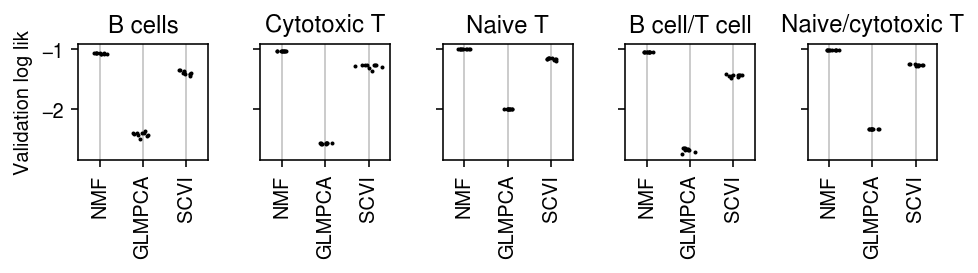
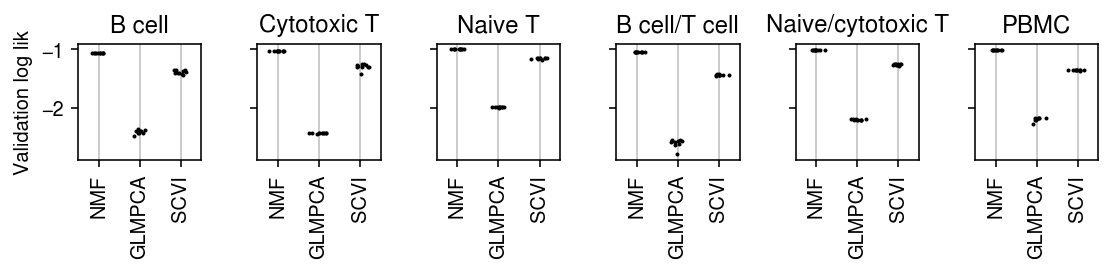
Fix PBMC benchmark

diff --git a/docs/lra.html b/docs/lra.html
@@ -1,7 +1,7 @@
 <!DOCTYPE html>
 <html lang="en">
 <head>
-<!-- 2019-08-29 Thu 15:21 -->
+<!-- 2019-08-30 Fri 17:59 -->
 <meta charset="utf-8">
 <meta name="viewport" content="width=device-width, initial-scale=1">
 <title>Low rank approximation</title>
@@ -854,7 +854,19 @@ res.to_csv(f<span class="org-string">'/scratch/midway2/aksarkar/modes/lra-genera
 </div>
 
 <div class="org-src-container">
-<pre class="src src-sh">sbatch --partition=broadwl -a 1-2 -n1 -c28 --exclusive --time=60:00 --job-name=lra-benchmark
+<pre class="src src-sh">sbatch --partition=broadwl -a 1 -n1 -c28 --exclusive --time=6:00:00 --job-name=lra-benchmark
+<span class="org-comment-delimiter">#</span><span class="org-comment">!/bin/bash</span>
+<span class="org-builtin">source</span> activate scmodes
+python /project2/mstephens/aksarkar/projects/singlecell-modes/code/pbmc-bench-lra.py
+</pre>
+</div>
+
+<p>
+Run SCVI on GPU.
+</p>
+
+<div class="org-src-container">
+<pre class="src src-sh">sbatch --partition=gpu2 --gres=gpu:1 -a 2 --mem=16G --time=6:00:00 --job-name=lra-benchmark
 <span class="org-comment-delimiter">#</span><span class="org-comment">!/bin/bash</span>
 <span class="org-builtin">source</span> activate scmodes
 python /project2/mstephens/aksarkar/projects/singlecell-modes/code/pbmc-bench-lra.py
@@ -877,16 +889,17 @@ Read the results.
 
 <div class="org-src-container">
 <pre class="src src-ipython"><span class="org-variable-name">data</span> = [<span class="org-string">'b_cells'</span>, <span class="org-string">'cytotoxic_t'</span>, <span class="org-string">'naive_t'</span>, <span class="org-string">'cytotoxic_t-b_cells'</span>, <span class="org-string">'cytotoxic_t-naive_t'</span>]
-<span class="org-variable-name">titles</span> = [<span class="org-string">'B cells'</span>, <span class="org-string">'Cytotoxic T'</span>, <span class="org-string">'Naive T'</span>, <span class="org-string">'B cell/T cell'</span>, <span class="org-string">'Naive/cytotoxic T'</span>]
+<span class="org-variable-name">titles</span> = [<span class="org-string">'B cell'</span>, <span class="org-string">'Cytotoxic T'</span>, <span class="org-string">'Naive T'</span>, <span class="org-string">'B cell/T cell'</span>, <span class="org-string">'Naive/cytotoxic T'</span>, <span class="org-string">'PBMC'</span>]
 <span class="org-variable-name">results</span> = {k: pd.read_csv(f<span class="org-string">'/project2/mstephens/aksarkar/projects/singlecell-modes/data/lra-generalization/{k}.txt.gz'</span>, header=[0, 1], index_col=0)
            <span class="org-keyword">for</span> k <span class="org-keyword">in</span> data}
+<span class="org-variable-name">results</span>[<span class="org-string">'pbmc'</span>] = pd.concat([pd.read_csv(f<span class="org-string">'/project2/mstephens/aksarkar/projects/singlecell-modes/data/lra-generalization/pbmcs-{m}.txt.gz'</span>, header=[0, 1], index_col=0) <span class="org-keyword">for</span> m <span class="org-keyword">in</span> [<span class="org-string">'nmf'</span>, <span class="org-string">'glmpca'</span>, <span class="org-string">'scvi'</span>]], axis=<span class="org-string">'columns'</span>)
 </pre>
 </div>
 
 <div class="org-src-container">
 <pre class="src src-ipython">plt.clf()
 <span class="org-variable-name">fig</span>, <span class="org-variable-name">ax</span> = plt.subplots(1, <span class="org-builtin">len</span>(results), sharey=<span class="org-constant">True</span>)
-fig.set_size_inches(7, 2)
+fig.set_size_inches(8, 2)
 <span class="org-keyword">for</span> a, k, t <span class="org-keyword">in</span> <span class="org-builtin">zip</span>(ax, results, titles):
   <span class="org-variable-name">llik</span> = results[k][<span class="org-string">'validation'</span>]
   <span class="org-keyword">for</span> x, m <span class="org-keyword">in</span> <span class="org-builtin">enumerate</span>(llik):
@@ -912,7 +925,7 @@ fig.tight_layout()
 </div>
 <div id="postamble" class="status">
 <p class="author">Author: Abhishek Sarkar</p>
-<p class="date">Created: 2019-08-29 Thu 15:21</p>
+<p class="date">Created: 2019-08-30 Fri 17:59</p>
 <p class="validation"><a href="http://validator.w3.org/check?uri=referer">Validate</a></p>
 </div>
 </body>
